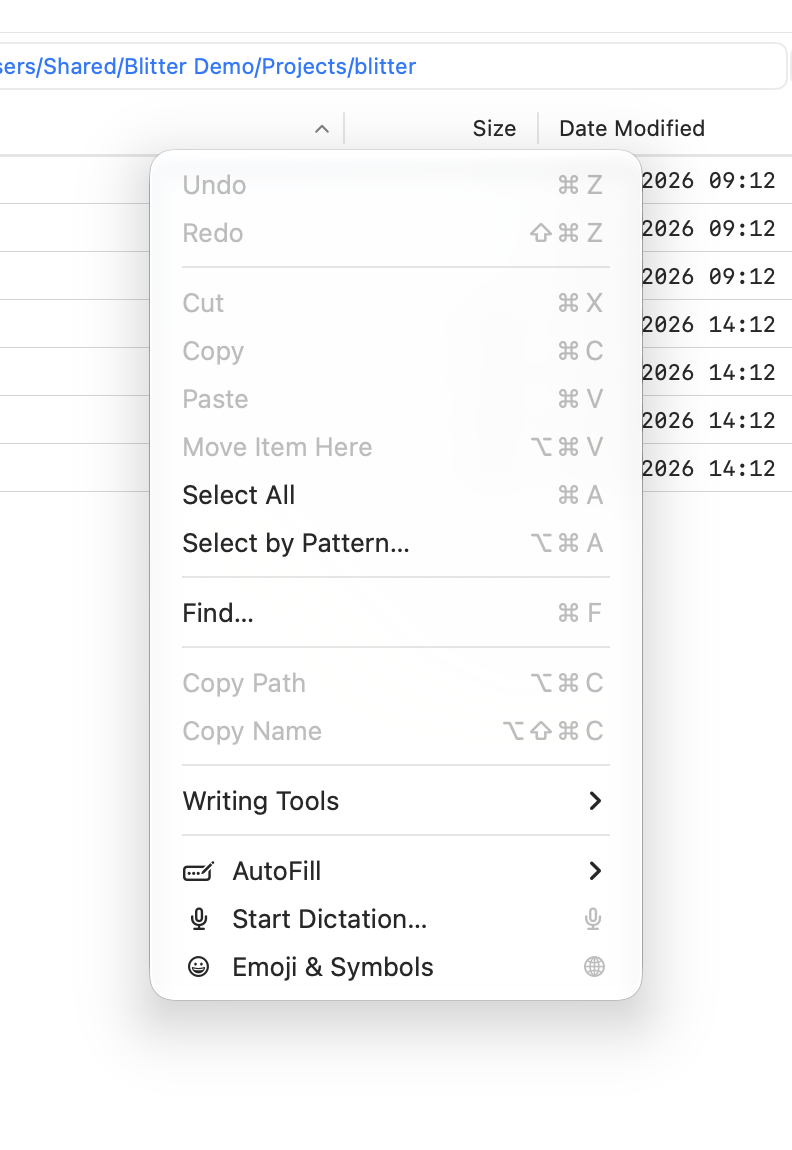
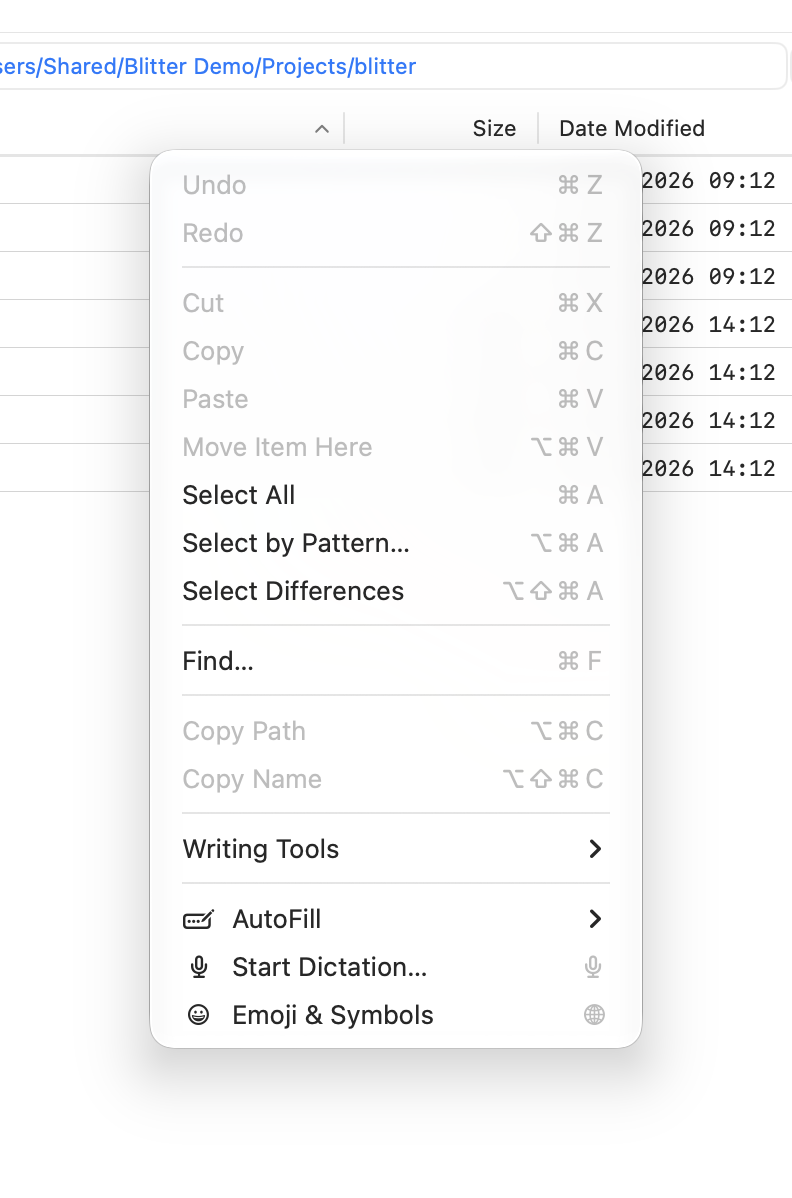
Release 0.5.0

diff --git a/README.md b/README.md
@@ -63,7 +63,7 @@ made from Blitter itself, so they show the current version.
 
 The details of each release are in its [release notes](https://github.com/gersonkurz/blitter/releases).
 
-- **Unreleased (on main):** drag and drop copies or moves as you choose (⇧⌘M switches); Open With and Always
+- **0.5.0** (2026-11-17): drag and drop copies or moves as you choose (⇧⌘M switches); Open With and Always
   Open With in the context menu; toolbar buttons with the icons of their apps, and an icon picker; file jobs take
   turns instead of all running at once, and a Jobs window shows what runs and waits; Select Differences between
   the two sides; the version in the window title.

diff --git a/docs/manual/getting-started.md b/docs/manual/getting-started.md
@@ -18,7 +18,7 @@ Blitter.
 ![The main window](images/main-window-light.png)
 
 The window shows two [sides](sides.md) next to each other; its title says which version of
-Blitter you run (for example **Blitter 0.4.0**; the pictures in this manual leave it out). Each
+Blitter you run (for example **Blitter 0.5.0**; the pictures in this manual leave it out). Each
 side has:
 
 - a **folder tree** on the left: your Favorites, the mounted volumes, iCloud Drive and other

diff --git a/CLAUDE.md b/CLAUDE.md
@@ -1,7 +1,7 @@
 # Blitter
 
 A native, keyboard-driven two-sided file manager for macOS: a Path Finder replacement, in the tradition of
-Directory Opus. Released (0.4.0); scope and order live in the GitHub issues. This file is the ground rules and the
+Directory Opus. Released (0.5.0); scope and order live in the GitHub issues. This file is the ground rules and the
 decisions that hold; read it before starting any work.
 
 ## Ground rules
